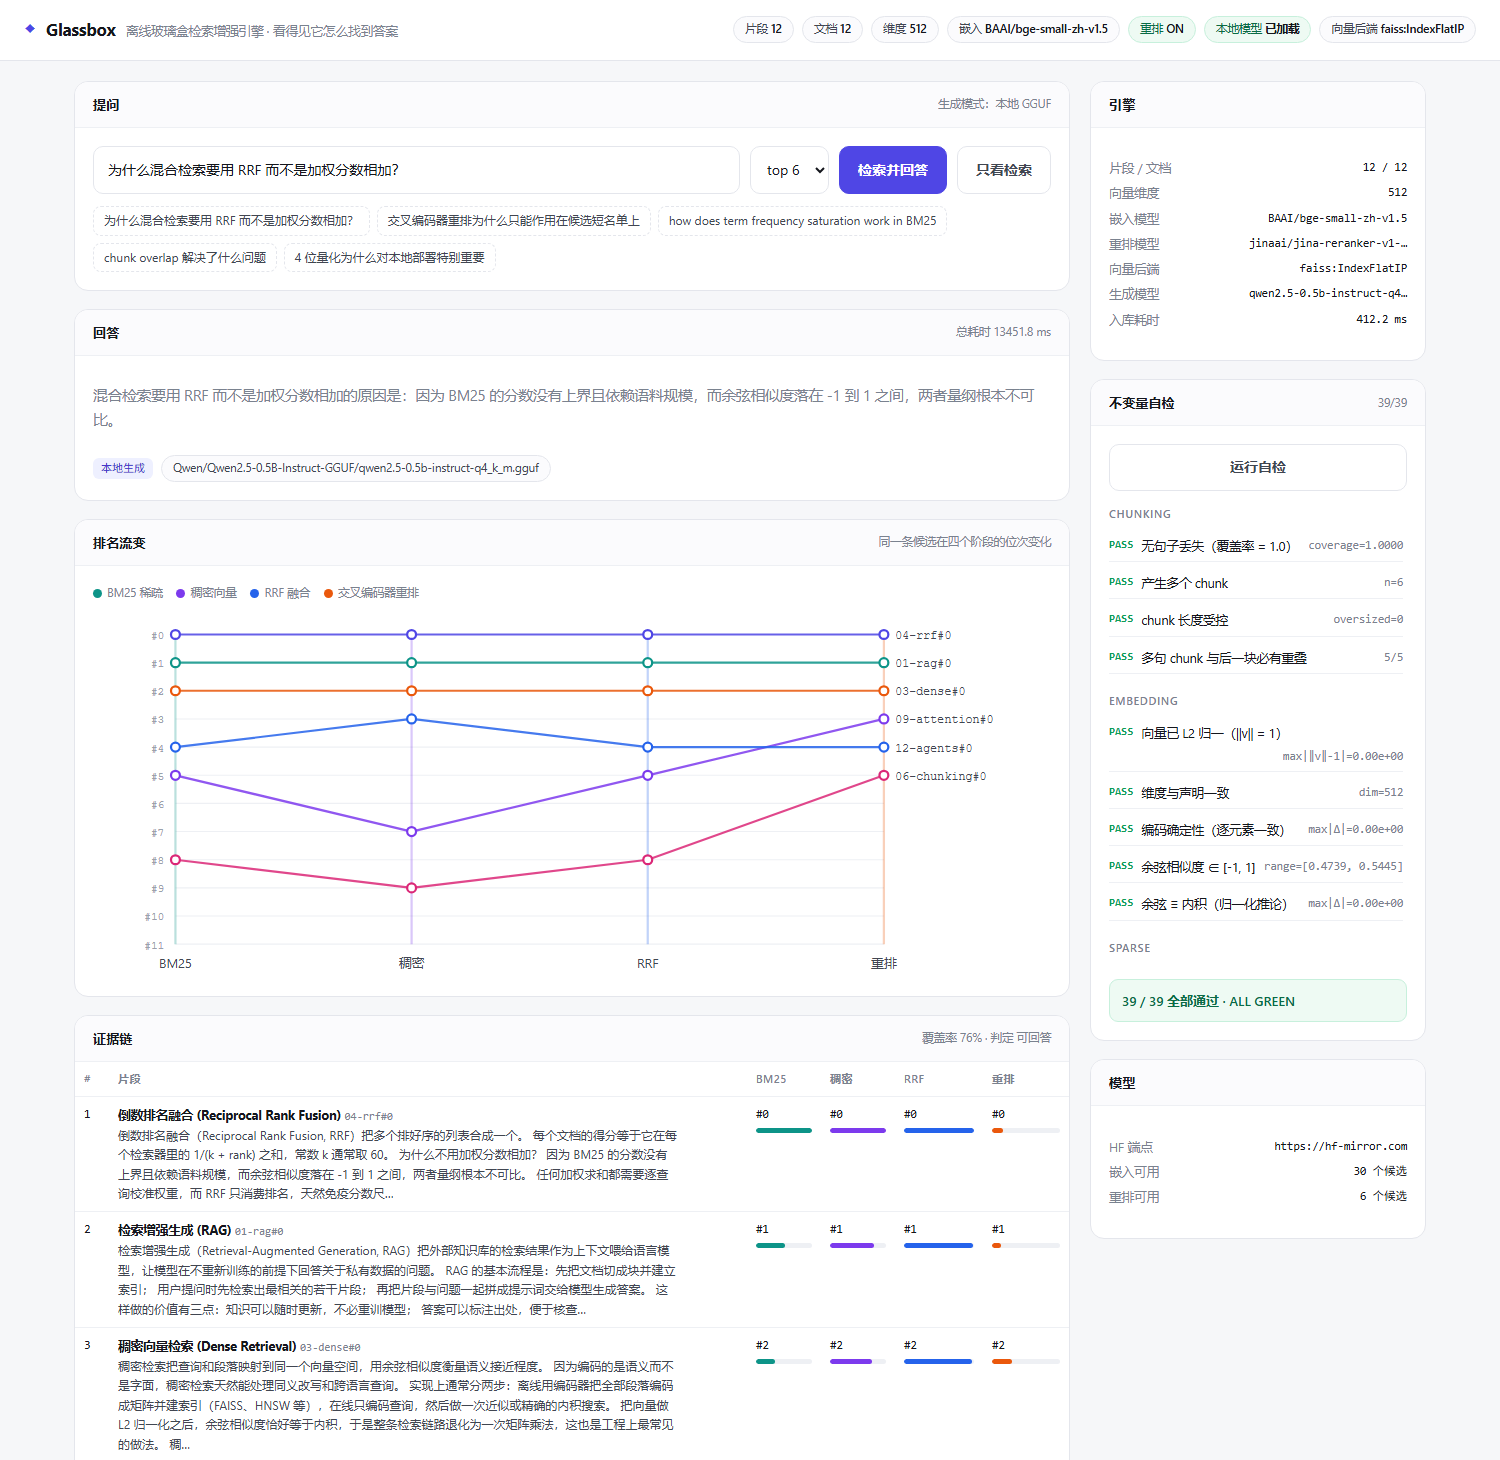
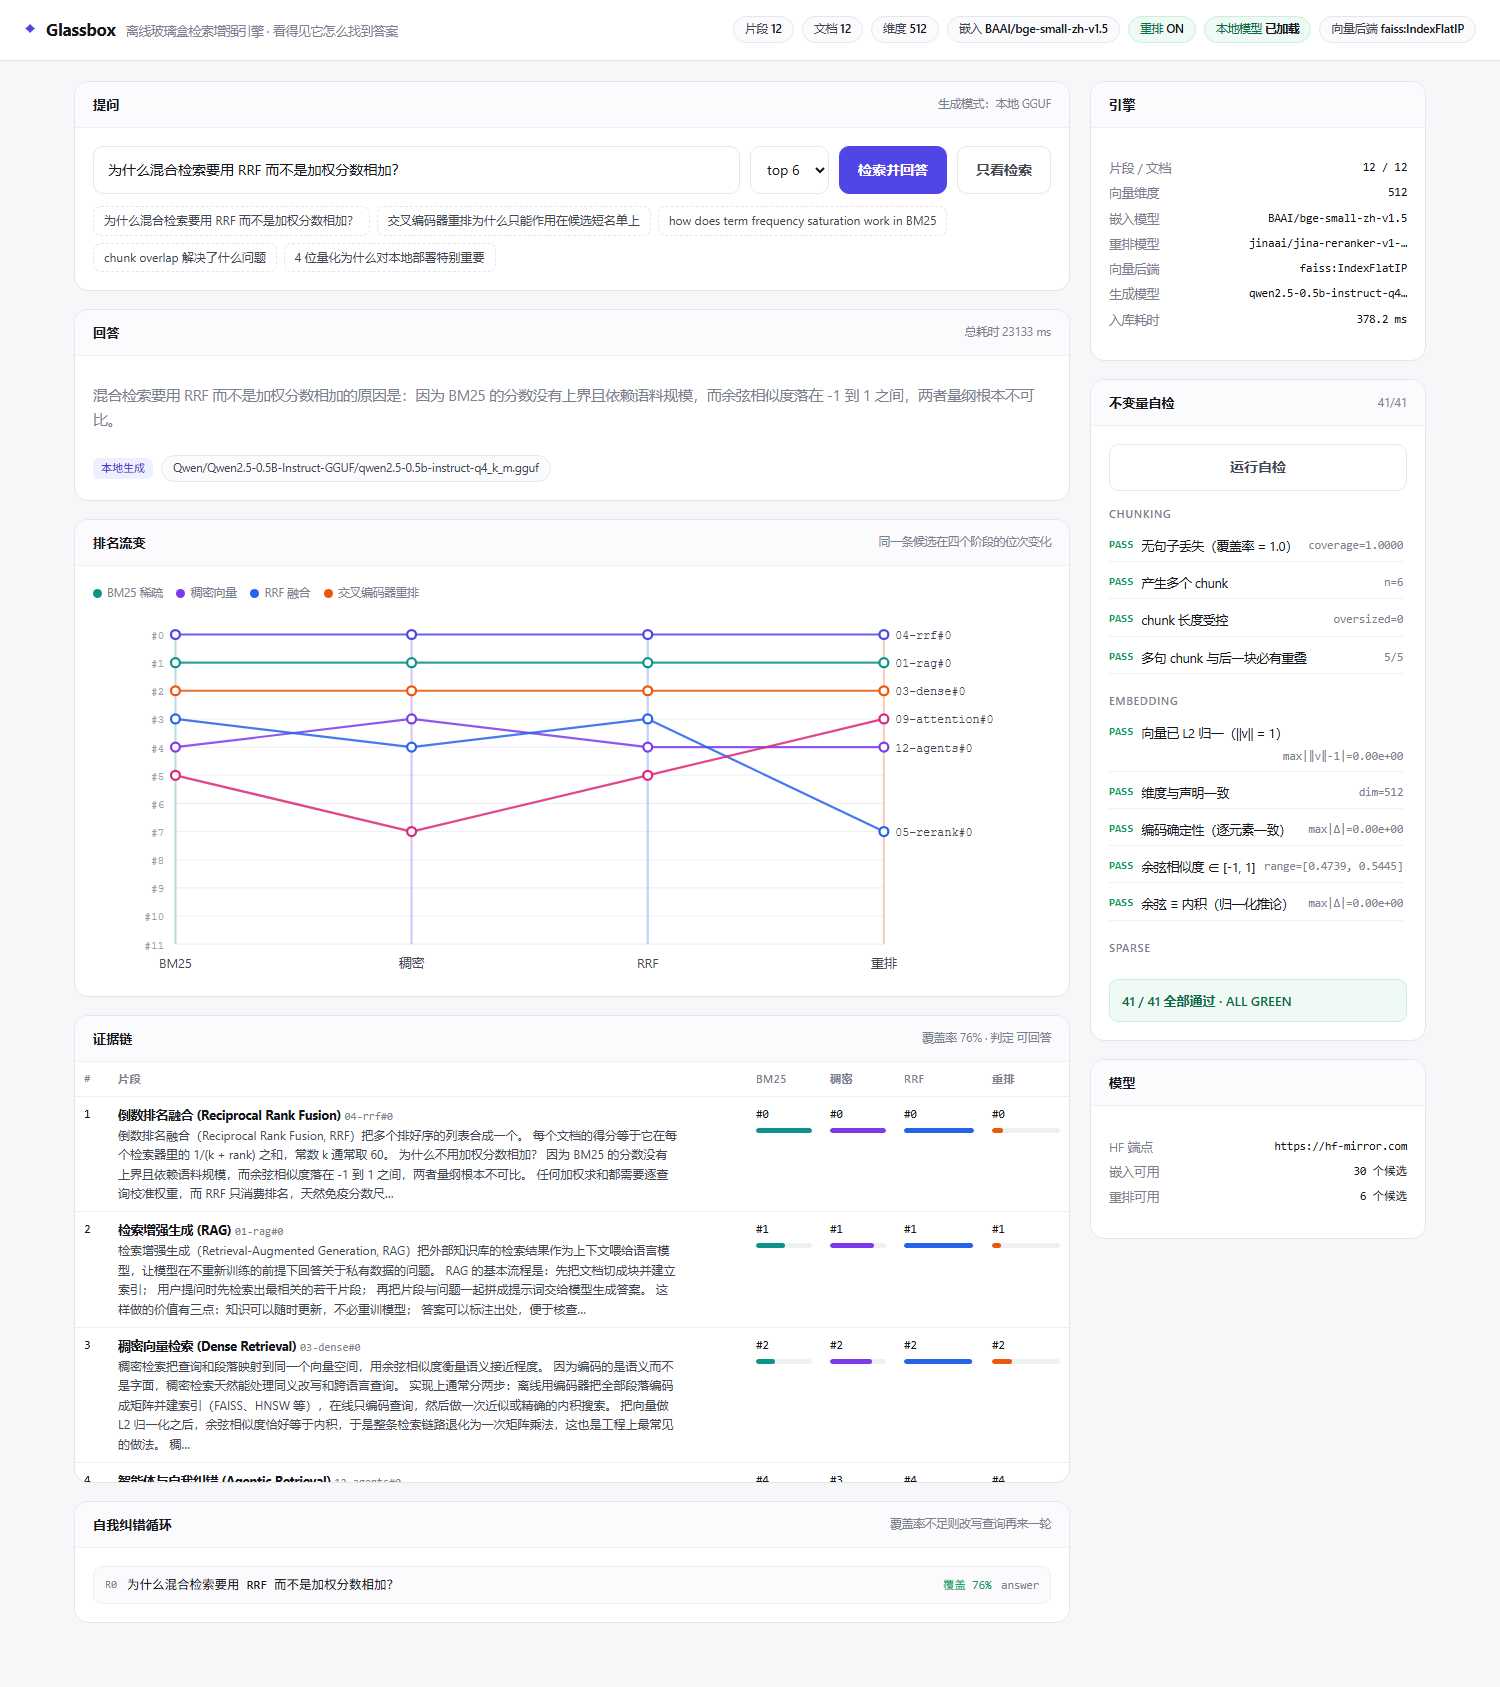
fix: 重排不再独断最终排序 —— 降权再融合，中文 top-1 由 11/12 升至 12/12
问题
----
交叉编码器的排序此前直接成为最终排序（final = reranked_order），没有任何
制衡。默认重排器 jina-reranker-v1-turbo-en 是英文模型，面对中文查询时会把
被 BM25 与稠密检索双双排在第一位的那篇正确文档压下去。

实测（12 篇中英双语文档 × 12 条中文查询，top-1 命中）：
  纯 RRF              11/12
  重排接管（原实现）    10/12   ← 加了重排反而更差
  降权再融合（本次）    12/12

top-3 始终 12/12 —— 召回从来没问题，坏掉的只有排序。

修复
----
重排降级为「第三路信号」：以权重 0.5 与一阶段 RRF 顺序再做一次融合，可提升、
不可否决。权重经实测扫描确定（0.25→11/12、0.5→12/12、0.75→12/12、1.0→11/12），
曲线非单调 —— 对一个可信度不足的重排器，温和地听它比全听它更好。重排的
独立排序仍在证据链里完整留痕。

- glassbox/pipeline.py   二次 RRF 融合取代 reranked_order 直接接管
- glassbox/config.py     新增 rerank_weight（GLASSBOX_RERANK_WEIGHT，默认 0.5）
- glassbox/api.py        bootstrap 暴露 rerank_weight
- static/index.html      自检条数注释 39 → 41

不变量：39 → 41
----------------
新增「对抗性重排无法推翻融合榜首」：注入一个把候选名单完全倒序打分的恶意
重排器，断言一阶段融合的冠军仍是最终第一。w<1 时该不等式在算术上恒成立，
不会偶发失败；而一旦有人把代码改回 final = reranked，它立刻变红。
另新增「重排仍作为独立信号留证」。

文档
----
README 增补「重排权重：一条反直觉的曲线」（含完整权重扫描表），更新设计取舍
与环境变量表；截图重拍为 41/41 全绿版本（证据链中 04-rrf 在四个阶段均为 #0）；
删除未被引用的孤儿图 docs/ui-trace.png。

diff --git a/static/index.html b/static/index.html
@@ -144,7 +144,7 @@
 
   /* ---------- checks ---------- */
   .checks{display:flex;flex-direction:column;gap:6px}
-  /* 39 checks would stretch the right column to ~4000px and drag the whole
+  /* 41 checks would stretch the right column to ~4000px and drag the whole
      page with it — cap it and scroll inside instead. */
   #checks{max-height:460px;overflow:auto;padding-right:4px}
   /* flex-wrap lets a long detail string drop onto its own line rather than

diff --git a/glassbox/selftest.py b/glassbox/selftest.py
@@ -374,6 +374,43 @@ def run_all(engine: "Glassbox") -> list[Check]:
     else:
         add("rerank", "重排器（未启用，已优雅降级）", True, f"model={resolve_rerank_model()}")
 
+    # The reranker is a signal, not a veto.  Inject a hostile cross-encoder
+    # that scores the shortlist in exactly the reverse order and assert the
+    # first-stage fusion's winner still comes out on top.  This is a regression
+    # guard for a real bug: the final order used to *be* the reranked order, so
+    # an English-only reranker silently demoted correct Chinese results
+    # (10/12 vs 11/12 top-1 on the bundled corpus).  With the second-stage
+    # weight below 1.0 the arithmetic guarantees the guard cannot flake:
+    # winner 1/(k+1) + 0.5/(k+n) beats runner-up 1/(k+n) + 0.5/(k+1).
+    class _AdversarialReranker:
+        name = "adversarial"
+        enabled = True
+
+        def score(self, query: str, documents) -> list[float]:
+            # best-first ordering of the worst possible kind: a full reversal
+            return [float(i) for i in range(len(documents))]
+
+    probe = "cross encoder reranking shortlist"
+    plain = engine.retrieve(probe, top_k=3, use_rerank=False)
+    saved = (engine._reranker, engine._reranker_resolved)
+    engine._reranker, engine._reranker_resolved = _AdversarialReranker(), True
+    try:
+        hostile = engine.retrieve(probe, top_k=3, use_rerank=True)
+    finally:
+        engine._reranker, engine._reranker_resolved = saved
+    add(
+        "rerank",
+        "对抗性重排无法推翻融合榜首",
+        hostile.hits[0].index == plain.hits[0].index,
+        f"fused#{plain.hits[0].index} -> final#{hostile.hits[0].index} (w={engine.s.rerank_weight})",
+    )
+    add(
+        "rerank",
+        "重排仍作为独立信号留证",
+        hostile.reranker == "adversarial" and bool(hostile.stage_reranked),
+        f"stage_reranked={len(hostile.stage_reranked)} entries",
+    )
+
     # ==================================================================
     # 7. generation runtime
     # ==================================================================

diff --git a/glassbox/pipeline.py b/glassbox/pipeline.py
@@ -310,8 +310,33 @@ class Glassbox:
         rr_pos = {idx: pos for pos, idx in enumerate(reranked_order)}
         timings["rerank"] = round((time.perf_counter() - t) * 1000, 2)
 
-        # --- assemble --------------------------------------------------
-        final_idx = reranked_order[:top_k]
+        # --- final order ------------------------------------------------
+        # The cross-encoder is a *signal*, not a veto.  Letting the reranked
+        # order become the final order outright means a cross-encoder that is
+        # weak on the query's language can silently demote a passage that BM25
+        # *and* the dense retriever both ranked first — which is exactly what
+        # an English-only reranker does to Chinese queries.  So fuse it back in
+        # as a third ranked list, with a deliberately lower weight: the
+        # reranker can promote, but it cannot overrule the fusion alone.
+        #
+        # Swept on the bundled bilingual corpus (12 Chinese queries,
+        # jina-reranker-v1-turbo-en), top-1 accuracy:
+        #     no rerank 11/12 · w=0.25 11/12 · w=0.5 12/12 · w=0.75 12/12
+        #     · w=1.0 (equal weight) 11/12
+        # The non-monotonic curve is the point: an assertive reranker is worse
+        # than a hedged one when it cannot be trusted on the query language.
+        if rr.enabled and rr_scores and s.rerank_weight > 0:
+            second = rrf(
+                [fused_order, reranked_order],
+                k=s.rrf_k,
+                weights=[1.0, s.rerank_weight],
+                names=["fused", "rerank"],
+            )
+            final_order = list(second.order)
+        else:
+            final_order = list(fused_order)
+
+        final_idx = final_order[:top_k]
         hits: list[Hit] = []
         for pos, i in enumerate(final_idx):
             c = self.chunks[i]

diff --git a/glassbox/config.py b/glassbox/config.py
@@ -51,6 +51,16 @@ class Settings:
     rrf_k: int = _env_int("GLASSBOX_RRF_K", 60)
     top_k: int = _env_int("GLASSBOX_TOPK", 8)
     rerank_top_n: int = _env_int("GLASSBOX_RERANK_TOPN", 6)
+
+    # Weight of the cross-encoder in the second-stage fusion.  The reranked
+    # list is fused *with* the first-stage RRF order rather than replacing it,
+    # so this is how much the reranker may pull on the final ordering.  0.5 was
+    # measured as the sweet spot on the bundled bilingual corpus: it reached
+    # 12/12 top-1 on 12 Chinese queries, where plain RRF scored 11/12 and an
+    # equal-weight (1.0) fusion scored 11/12 — i.e. a heavy-handed reranker is
+    # worse than a hedged one.  Set to 0 to ignore the reranker's ordering.
+    rerank_weight: float = float(os.environ.get("GLASSBOX_RERANK_WEIGHT", "0.5"))
+
     # How many candidates each first-stage retriever hands to the fusion step.
     fanout: int = _env_int("GLASSBOX_FANOUT", 30)
 

diff --git a/glassbox/api.py b/glassbox/api.py
@@ -101,6 +101,7 @@ def bootstrap() -> JSONResponse:
                 "chunk_chars": eng.s.chunk_chars,
                 "chunk_overlap": eng.s.chunk_overlap,
                 "rrf_k": eng.s.rrf_k,
+                "rerank_weight": eng.s.rerank_weight,
                 "top_k": eng.s.top_k,
                 "fanout": eng.s.fanout,
                 "max_rewrites": eng.s.max_rewrites,
